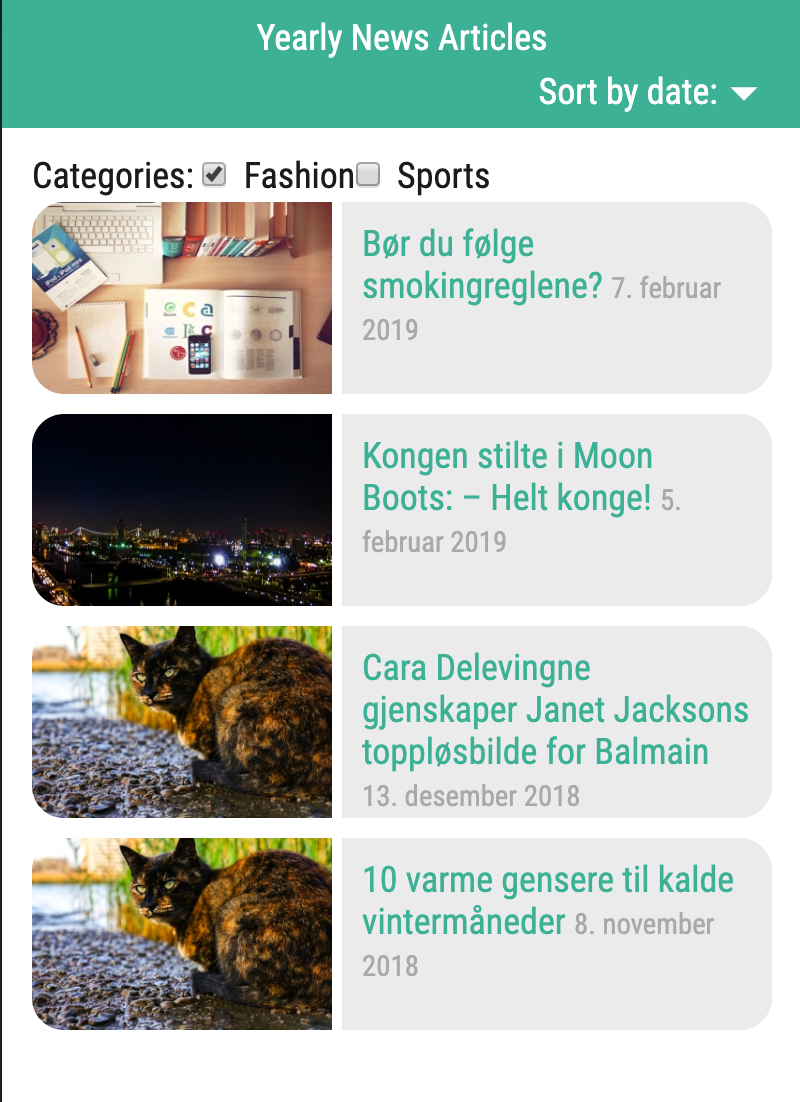
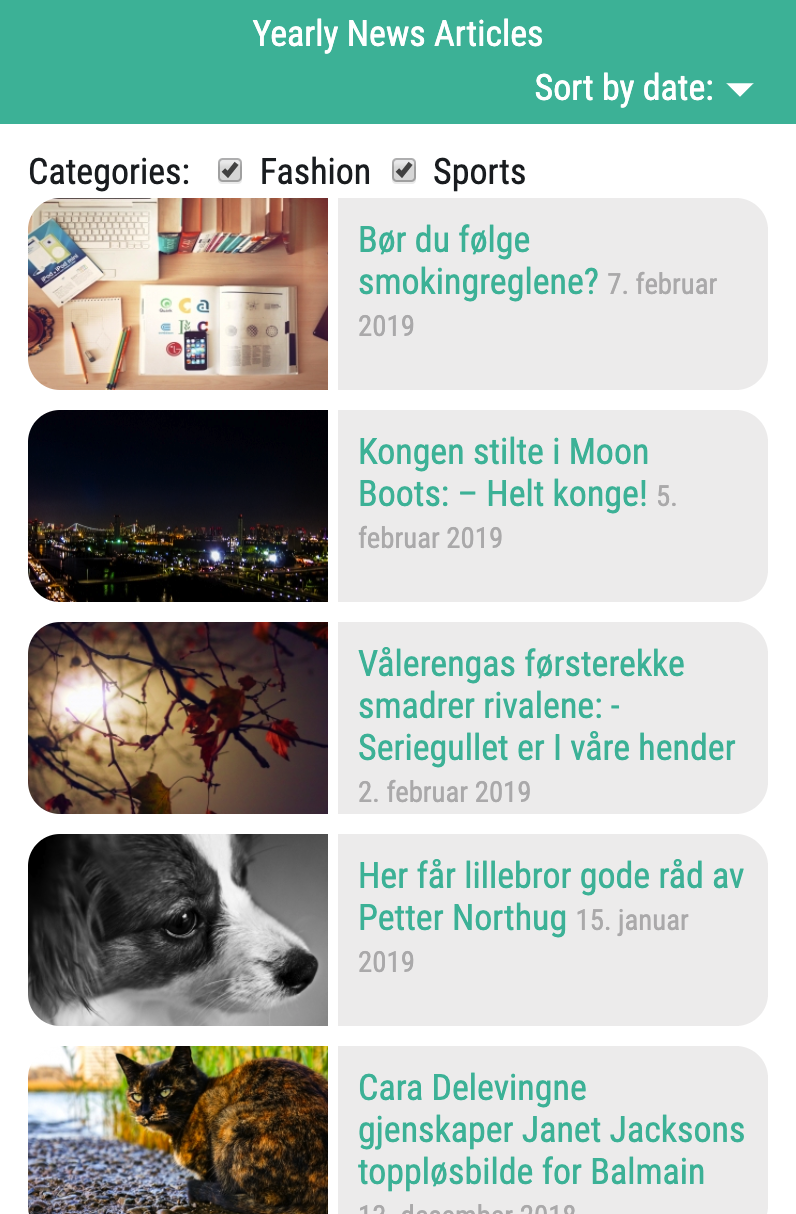
Screen changed

diff --git a/src/components/Categories.js b/src/components/Categories.js
@@ -7,14 +7,17 @@ export default function Categories({
   activeCategories
 }) {
   const [categories, setCategories] = useState(initialCategories);
-  
+  const mobile = window.innerWidth <= 760;
+  const inline = mobile ? true : false;
+  const labelStyle = mobile ? { "margin-left": "10px" } : {};
+
   return (
     <Col sm="2">
       Categories:{" "}
-      <FormGroup check inline={window.innerWidth <= 760 ? true : false}>
+      <FormGroup check inline={inline}>
         {categories.map((categoryName, index) => (
           <div key={index}>
-            <Label check>
+            <Label check style={labelStyle}>
               <Input
                 type="checkbox"
                 onChange={setCategory}
